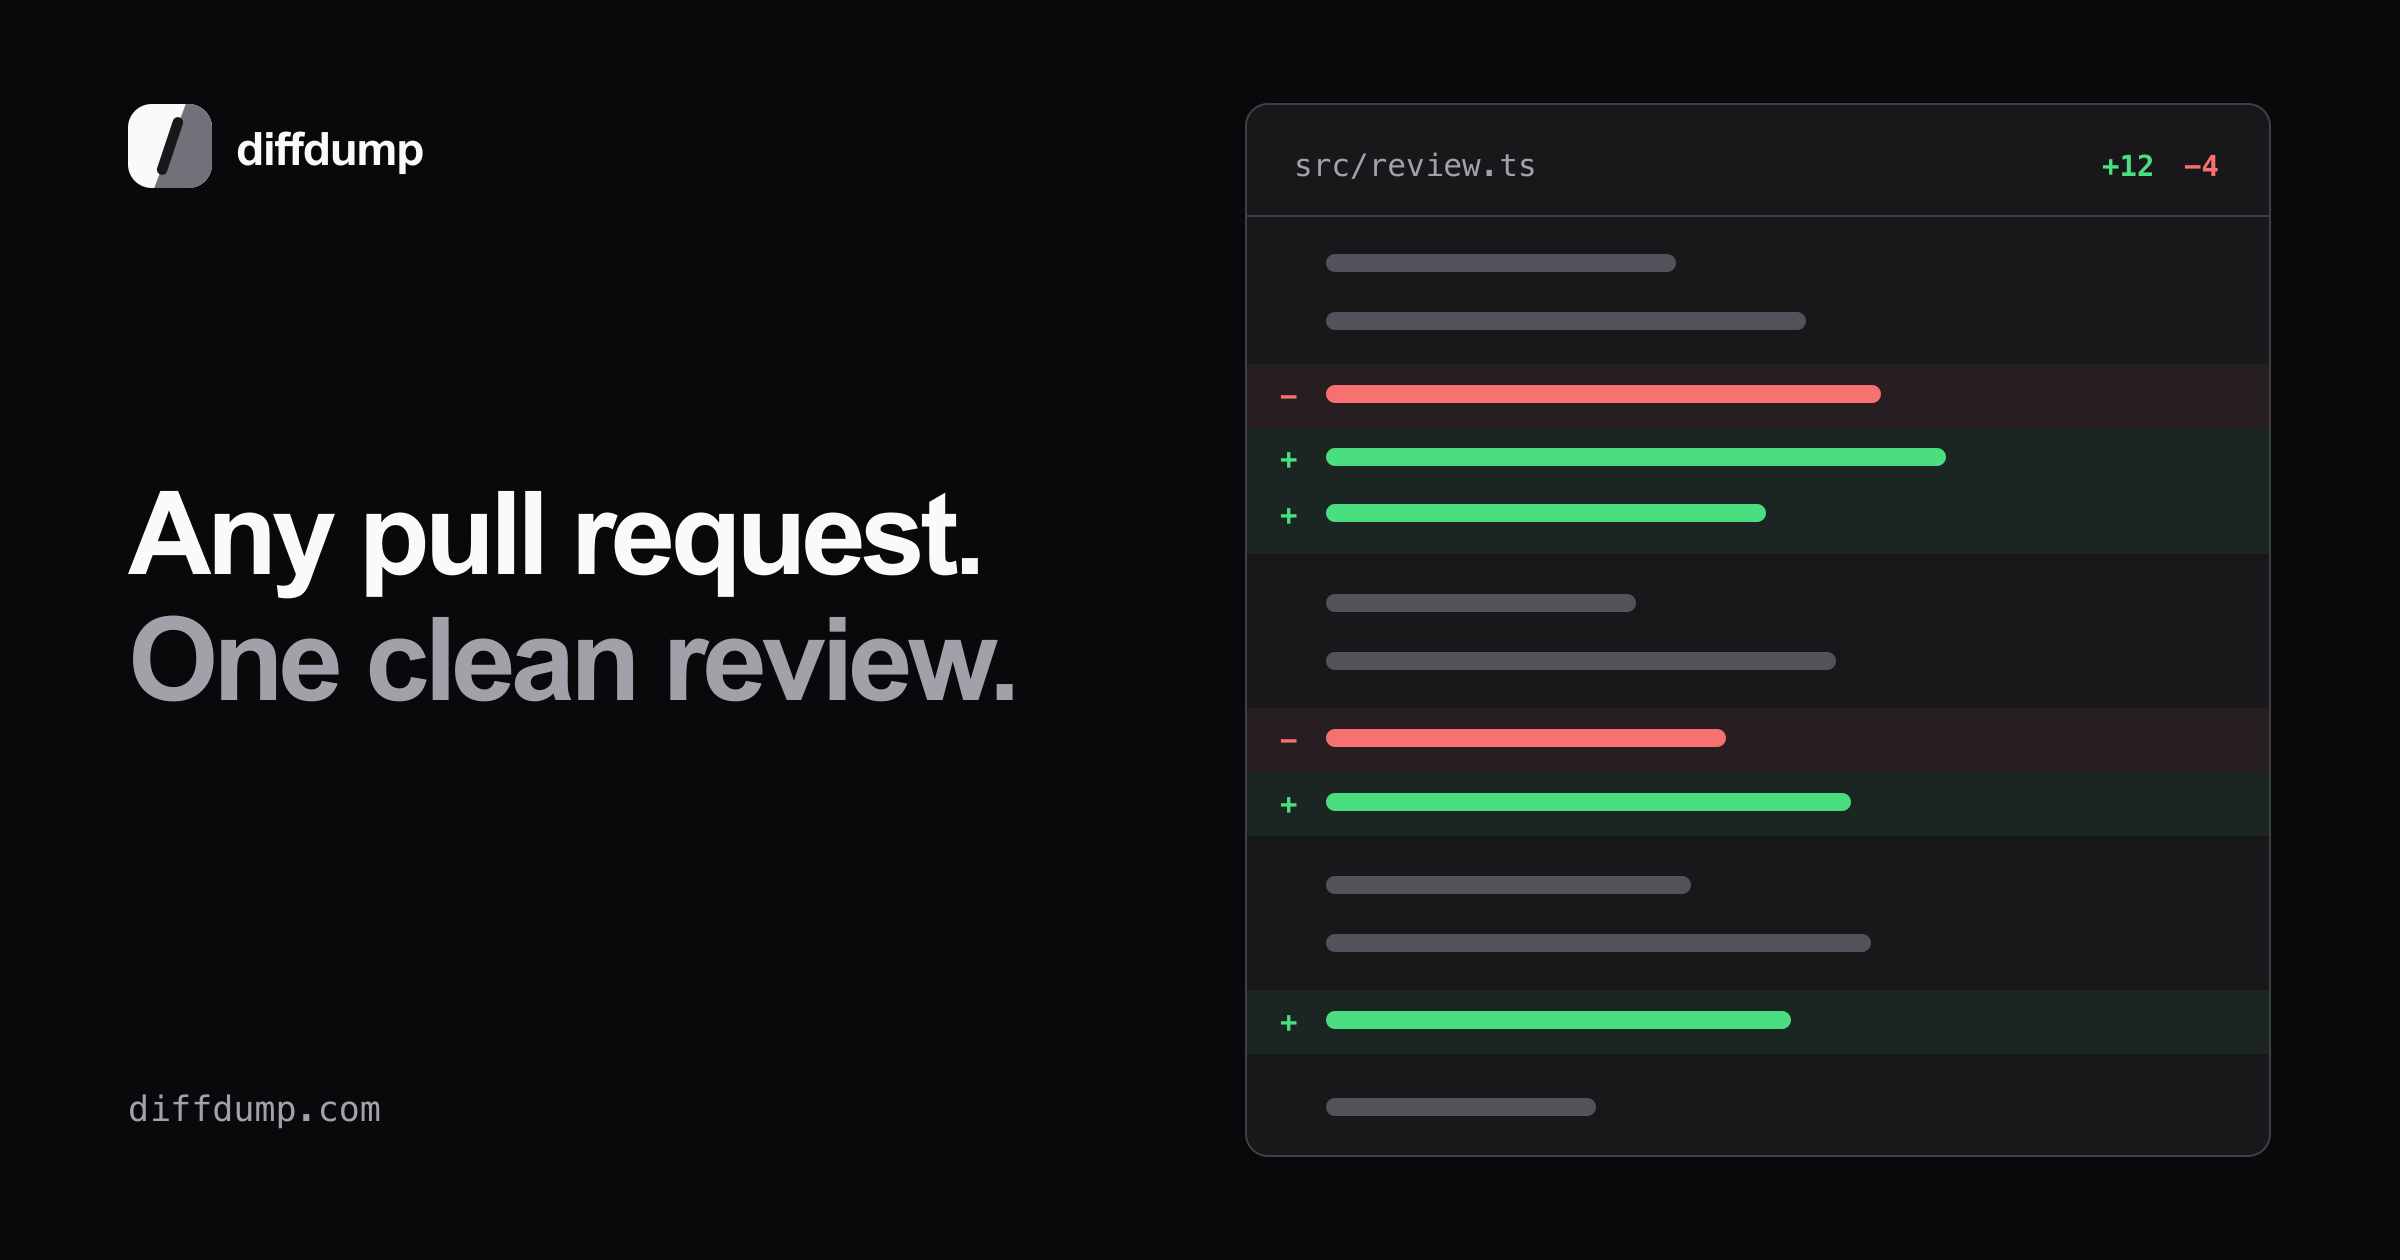
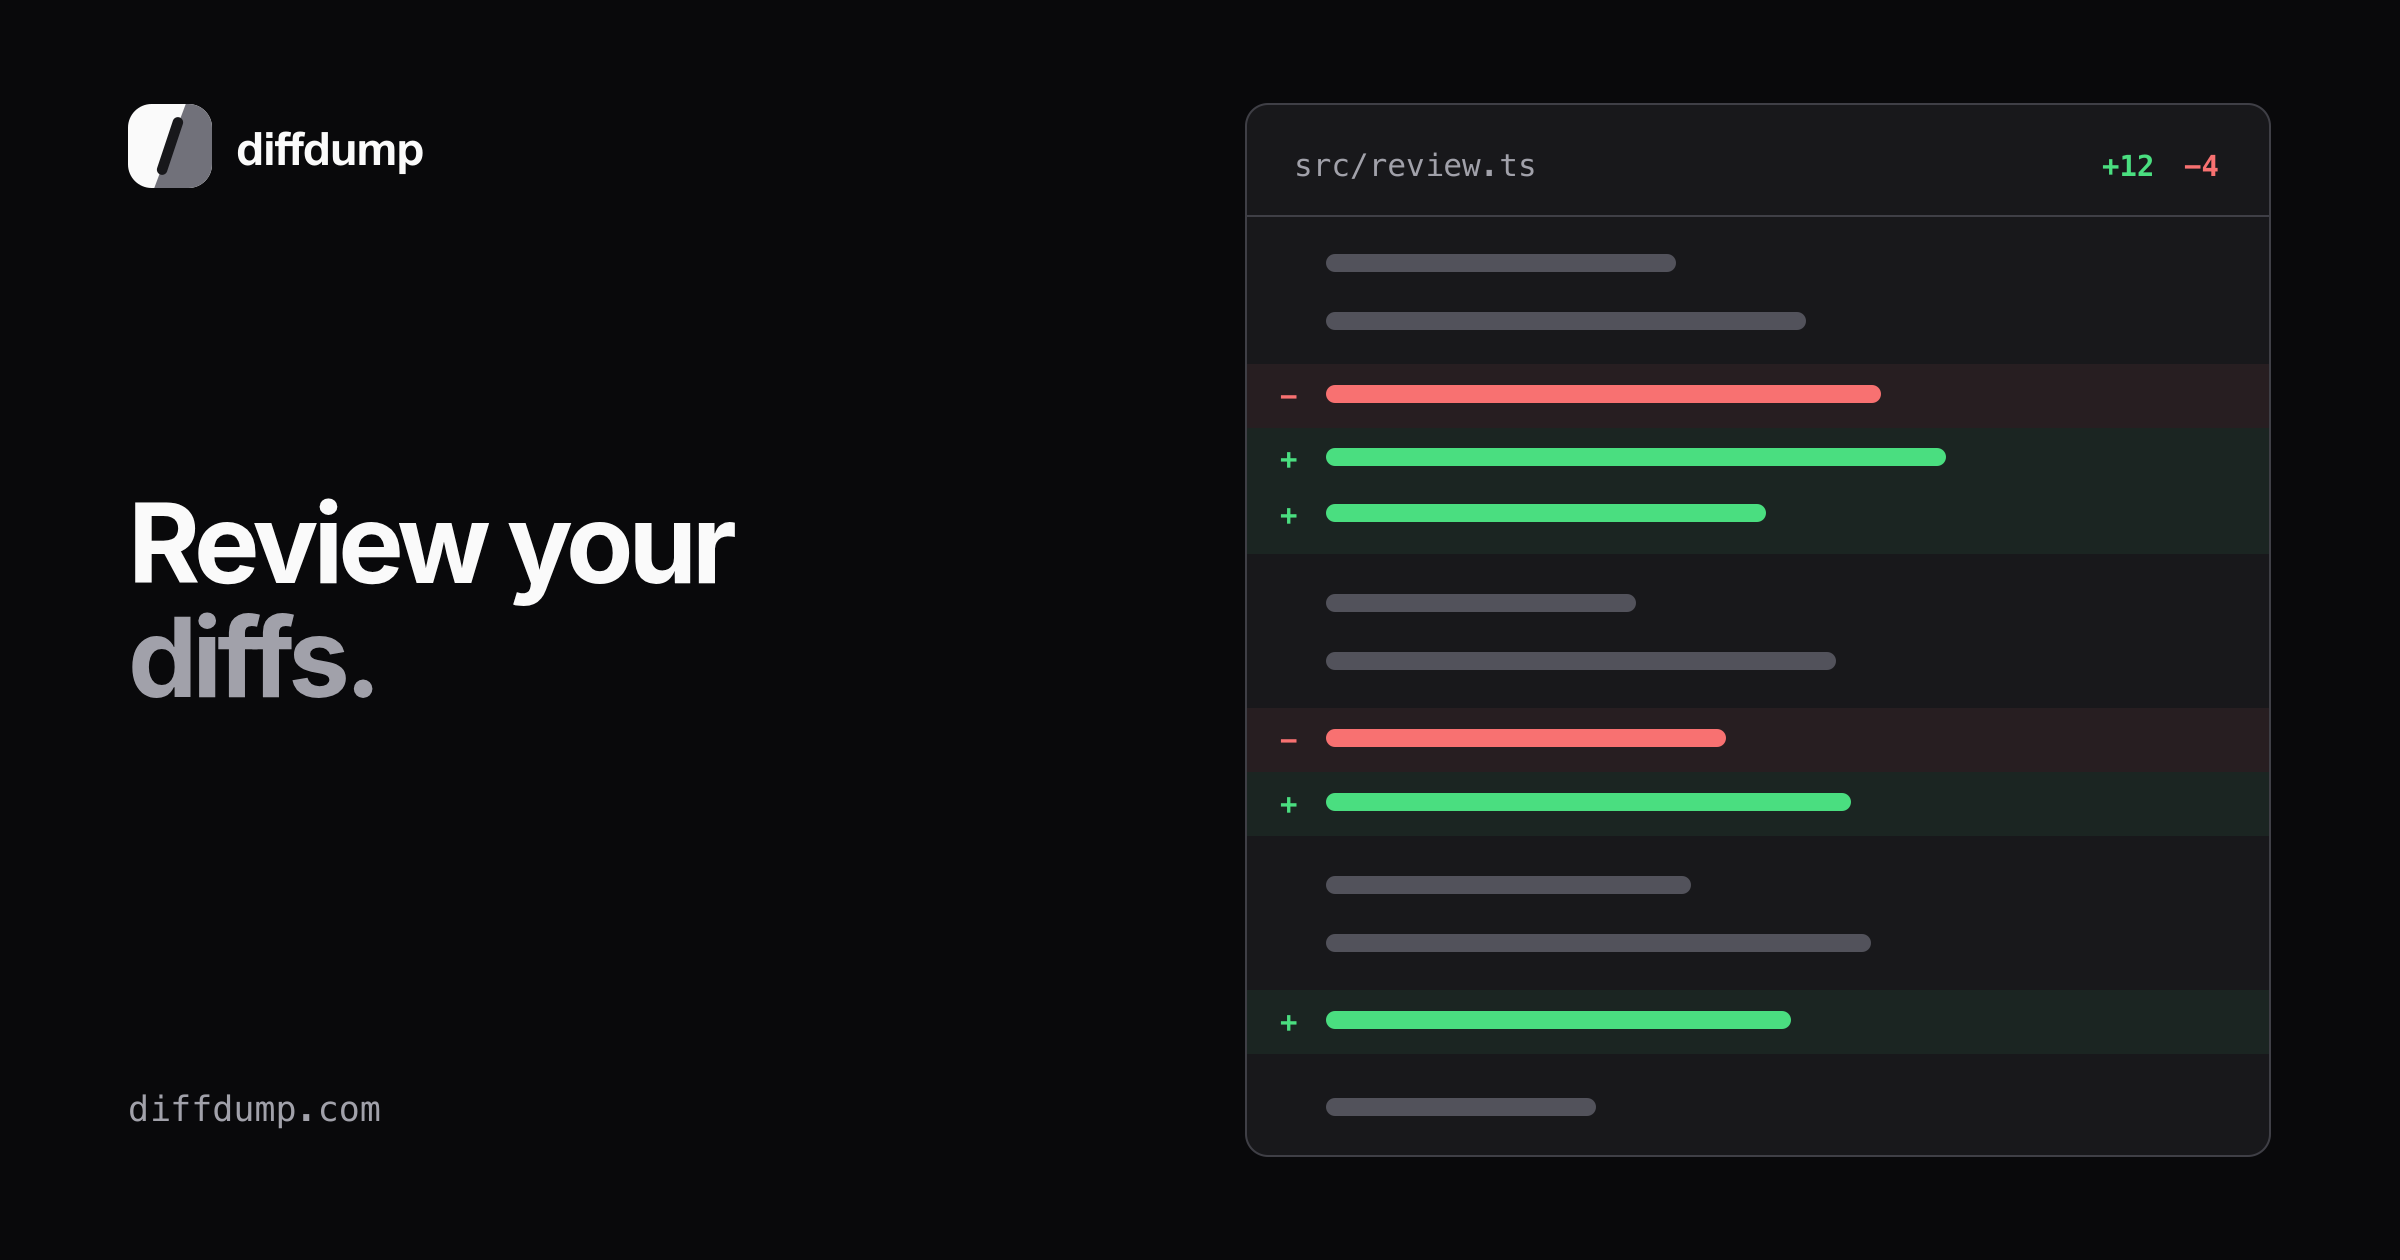
Update homepage review flow messaging

Changed region(s): [[0.0312, 0.3714, 0.4375, 0.5571]]

diff --git a/src/routes/index.tsx b/src/routes/index.tsx
@@ -22,9 +22,30 @@ import { createPageHead, createWebApplicationStructuredData } from '../lib/seo'
 type CommandCopyState = 'idle' | 'armed' | 'full'
 type PanelTab = 'paste' | 'github'
 
-const title = 'Diffdump — Review and Share Code Changes'
+const title = 'Review Your Diffs | Diffdump'
 const description =
-  'Review any GitHub pull request, commit, or comparison in a fast, focused diff viewer, or create an unlisted 24-hour link for a raw Git diff.'
+  'Review and approve GitHub pull requests with automatic file categories and stacked PR navigation, or create an unlisted 24-hour link for a raw Git diff.'
+
+const reviewCapabilities = [
+  {
+    label: 'Complete review flow',
+    title: 'Everything in one review',
+    description:
+      'Comment on lines, submit one review, and approve or request changes directly on the pull request.',
+  },
+  {
+    label: 'Agent-friendly structure',
+    title: 'See the shape of the change',
+    description:
+      'Source, tests, docs, and other files are categorized automatically, making agent-generated code easier to review.',
+  },
+  {
+    label: 'Stack-aware',
+    title: 'Move through stacked PRs',
+    description:
+      'See the ultimate base and every pull request layer, then move through the stack without losing your place.',
+  },
+] as const
 
 export const Route = createFileRoute('/')({
   head: () => ({
@@ -176,16 +197,46 @@ function Home() {
       <SiteHeader />
 
       <section className="pt-16 pb-10 md:pt-24 md:pb-12">
-        <h1 className="max-w-[900px] text-[clamp(42px,13vw,64px)] font-[560] leading-[0.98] tracking-[-0.04em] md:text-[clamp(52px,7vw,88px)]">
-          Any pull request.
-          <br />
-          <span className="text-muted">One clean review.</span>
+        <h1 className="max-w-[1050px] text-[clamp(42px,13vw,64px)] font-[560] leading-[0.98] tracking-[-0.04em] md:text-[clamp(52px,7vw,88px)]">
+          Review your diffs.
         </h1>
-        <p className="mt-6 max-w-[610px] text-base leading-relaxed text-muted-bright md:mt-8 md:text-lg">
-          Open any GitHub pull request, commit, or comparison in a fast, focused
-          review view — no account, nothing uploaded. Raw diff instead? Paste it
-          for a clean, unlisted share link.
+        <p className="mt-6 max-w-[680px] text-base leading-relaxed text-muted-bright md:mt-8 md:text-lg">
+          Open a GitHub pull request, commit, comparison, or raw patch in one
+          focused view. Diffdump categorizes large, agent-generated changes,
+          supports stacked PRs, and adds inline comments and approvals when
+          you’re reviewing on GitHub.
         </p>
+      </section>
+
+      <section
+        className="mb-10 border-y border-line md:mb-12"
+        aria-labelledby="review-capabilities-title"
+      >
+        <h2 id="review-capabilities-title" className="sr-only">
+          A clear, complete pull request review flow
+        </h2>
+        <div className="grid md:grid-cols-3 md:divide-x md:divide-line">
+          {reviewCapabilities.map((capability, index) => (
+            <article
+              key={capability.label}
+              className="border-b border-line px-1 py-5 last:border-b-0 md:border-b-0 md:px-6 md:py-6 md:first:pl-1 md:last:pr-1"
+            >
+              <div className="flex items-center gap-2 font-mono text-[11px] font-medium uppercase tracking-[0.08em] text-muted">
+                <span className="text-accent-text">
+                  {String(index + 1).padStart(2, '0')}
+                </span>
+                <span aria-hidden="true" className="h-px w-5 bg-line-bright" />
+                {capability.label}
+              </div>
+              <h3 className="mt-3 text-base font-medium tracking-[-0.02em]">
+                {capability.title}
+              </h3>
+              <p className="mt-2 text-sm leading-relaxed text-muted">
+                {capability.description}
+              </p>
+            </article>
+          ))}
+        </div>
       </section>
 
       <section aria-labelledby="panel-section-title">

diff --git a/src/lib/seo.ts b/src/lib/seo.ts
@@ -98,11 +98,13 @@ export function createWebApplicationStructuredData(description: string) {
     },
     codeRepository: SOURCE_REPOSITORY_URL,
     featureList: [
+      'Complete GitHub pull request review flow with inline comments, approvals, and change requests',
+      'Automatic Source, Tests, Docs, and Other file categorization',
+      'GitHub stacked pull request navigation',
       'GitHub pull request, commit, and comparison review',
       'Unified and split diff layouts',
       'Syntax-highlighted multi-file diffs',
       'Unlisted 24-hour diff share links',
-      'Inline GitHub pull request reviews',
     ],
   }
 }

diff --git a/src/routes/__root.tsx b/src/routes/__root.tsx
@@ -15,7 +15,7 @@ export const Route = createRootRoute({
       {
         name: 'description',
         content:
-          'Review GitHub diffs and share code changes in a fast, focused diff viewer.',
+          'Review GitHub pull requests and raw code changes with automatic file categories and stacked PR navigation.',
       },
       {
         name: 'viewport',

diff --git a/README.md b/README.md
@@ -1,6 +1,6 @@
 # diffdump
 
-Any pull request. One clean review.
+Review your diffs.
 
 diffdump opens GitHub pull requests, commits, and comparisons in a fast,
 focused review view — no account, no repository access granted to Diffdump.
